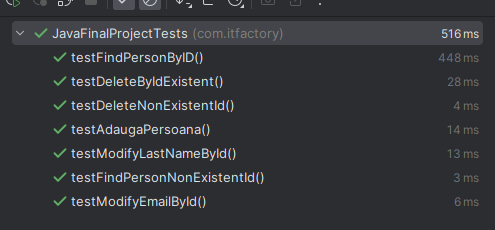
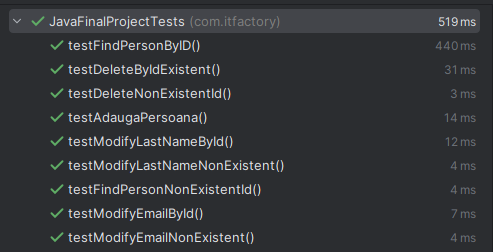
Final Version v1.

diff --git a/README.md b/README.md
@@ -103,7 +103,7 @@ We should get 204 No Content status.
 ![deleteById Screenshot](screenshots/deleteById.png)
 
 9. Now we can switch back to IntelliJ and under src->test->java->com.itfactory->JavaFinalProjectTests, we can run all tests for the class.
-If you followed all steps above in the order, we should have all 7 tests passed.
+If you followed all steps above in the order, we should have all 9 tests passed.
 
 ![tests Screenshot](screenshots/tests.png)
 
